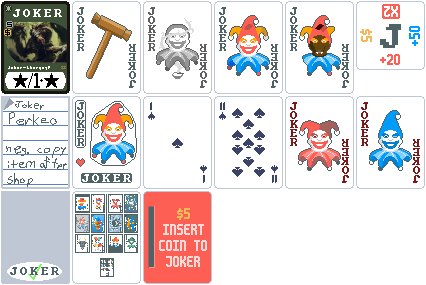
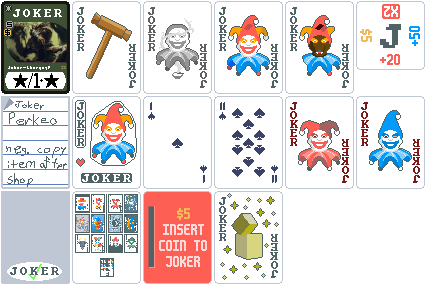
Add Pyrite

Changed region(s): [[0.4883, 0.6456, 0.6714, 1.0]]

diff --git a/README.md b/README.md
@@ -6,7 +6,7 @@ Additions are generally meant to be well-balanced with vanilla, although the dec
 
 Current contents:
 
-- 15 Jokers
+- 16 Jokers
 - 3 Tags
 - 3 Decks
 - 3 [Deck Sleeves](https://github.com/larswijn/CardSleeves)
